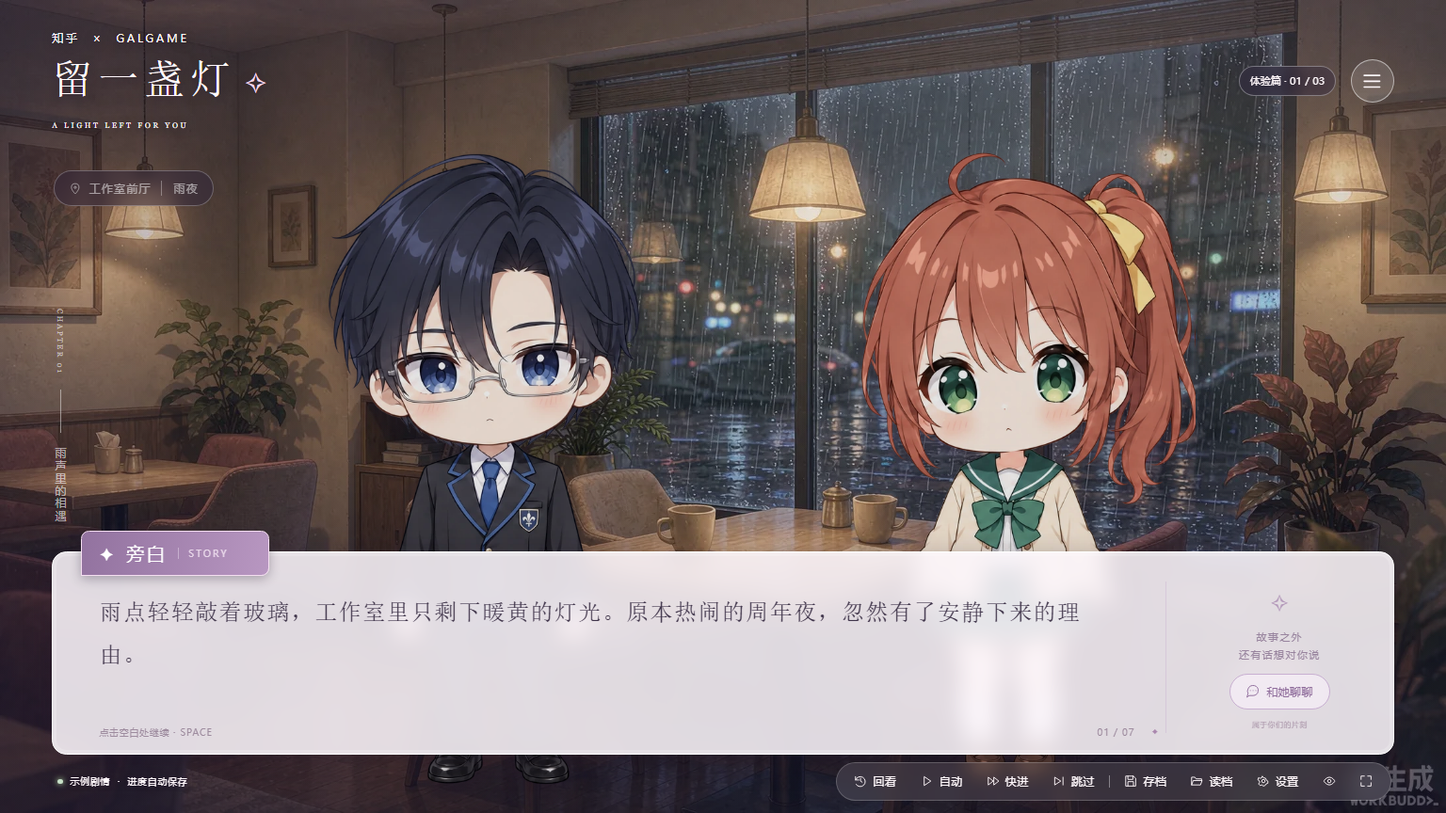
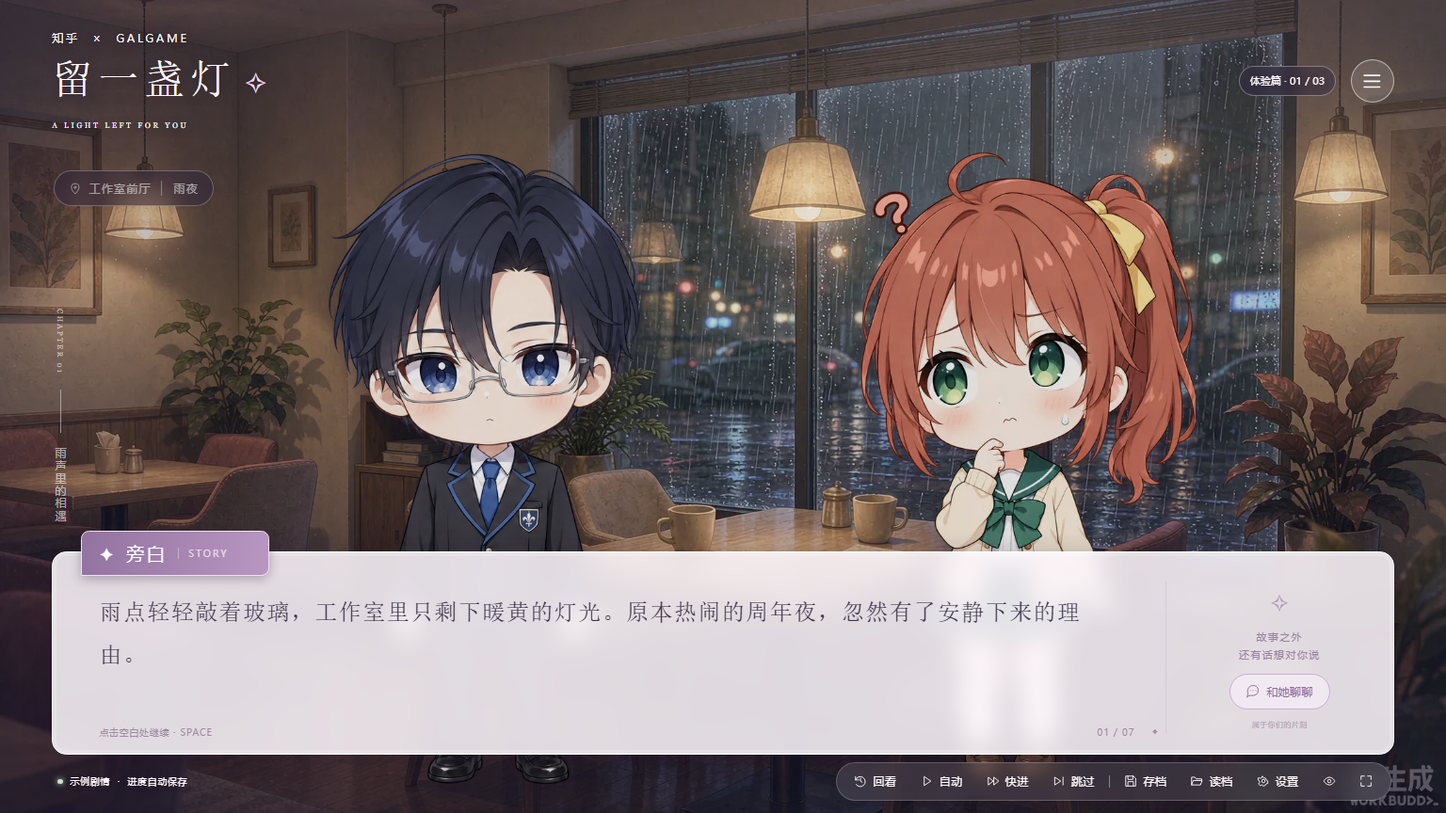
feat: 实现表情切换

diff --git a/app/globals.css b/app/globals.css
@@ -1,22 +1,1 @@
 :root{--ink:#40354b;--accent:#a882b6;font-family:"Microsoft YaHei","PingFang SC",sans-serif;color:var(--ink);background:#191626;font-synthesis:none}*{box-sizing:border-box}body{margin:0}button,input,textarea{font:inherit}button{cursor:pointer;border:0;background:none;color:inherit;-webkit-tap-highlight-color:transparent}button:disabled{opacity:.42;cursor:not-allowed}button:focus-visible,input:focus-visible,textarea:focus-visible{outline:2px solid #a275b2;outline-offset:3px}.icon{width:1.15em;height:1.15em;flex:none}h1,h2,h3,p{margin:0}h1,h2{font-family:"Noto Serif SC","SimSun",serif;font-weight:500}.game-shell{min-height:100dvh;display:grid;place-items:center}.game-stage{container-type:inline-size;position:relative;width:min(100vw,177.7778dvh);aspect-ratio:16/9;overflow:hidden;isolation:isolate;background:#534f60}.background{position:absolute;inset:0;width:100%;height:100%;object-fit:cover}.scene-vignette{position:absolute;inset:0;background:linear-gradient(180deg,#251c3d44,transparent 35%,#20162e77),linear-gradient(90deg,#281d3d44,transparent 45%,#251b3911)}.rain-light{position:absolute;inset:0;background:radial-gradient(ellipse at 75% 12%,#fce8c422,transparent 40%);pointer-events:none}.cast-stage{position:absolute;inset:0;pointer-events:none}.character{position:absolute;bottom:0;height:83%;width:32%;object-fit:contain;object-position:center bottom;filter:brightness(.9) saturate(.92) drop-shadow(0 12px 12px #23162866);transition:filter .3s;animation:character .5s ease-out}.character.player{left:18%}.character.partner{right:13%}.character.speaking{filter:brightness(1.06) saturate(1.05) drop-shadow(0 12px 20px #fff0ce44)}.stage-header{position:absolute;inset:3.7% 3.6% auto;z-index:4;display:flex;justify-content:space-between;color:#fff8fb;text-shadow:0 2px 10px #21182e99}.zhihu-mark{display:block;font-size:.8cqw;letter-spacing:.2em}.zhihu-mark i{font-style:normal;margin:0 .6em}.wordmark h1{font-size:2.8cqw;line-height:1.25;letter-spacing:.14em;margin:.2em 0}.wordmark h1 span{font-size:.72em;color:#f3d9ec;margin-left:.25em}.wordmark-en{font:.53cqw Georgia;letter-spacing:.32em}.top-right{display:flex;gap:1cqw;align-items:center}.chapter-chip{font-size:.72cqw;padding:.7em 1em;border:1px solid #fff5;border-radius:2em;background:#30254166;backdrop-filter:blur(8px)}.menu-trigger{width:3cqw;height:3cqw;border-radius:50%;display:grid;place-items:center;border:1px solid #fff8;background:#fff2;font-size:1.4cqw}.location-chip{position:absolute;top:21%;left:3.7%;z-index:3;display:flex;align-items:center;gap:.5cqw;padding:.65cqw 1cqw;border-radius:3em;color:#fff8;font-size:.78cqw;letter-spacing:.1em;background:#30263b81;border:1px solid #fff4;backdrop-filter:blur(8px)}.location-chip>span{border-left:1px solid #fff5;padding-left:.8cqw;margin-left:.2cqw}.chapter-side{position:absolute;top:38%;left:3.7%;color:#fff9;writing-mode:vertical-rl;display:flex;gap:1cqw;align-items:center;font-size:.75cqw;letter-spacing:.17em}.chapter-side>span{font:.55cqw Georgia}.chapter-side>i{height:3cqw;border-left:1px solid #fff7}.dialogue-wrap{position:absolute;z-index:6;bottom:7.2%;left:3.6%;right:3.6%;height:25%}.speaker-name{position:absolute;z-index:2;top:-1.4cqw;left:2cqw;display:flex;align-items:center;gap:.7cqw;min-width:13cqw;padding:.65cqw 1.2cqw;color:#fff;border:1px solid #f5def1;border-radius:.55cqw .55cqw .55cqw 0;background:linear-gradient(100deg,#92729f,#b897c1);box-shadow:0 3px 12px #31243855;font-size:1.25cqw;letter-spacing:.13em}.speaker-role{padding-left:.7cqw;border-left:1px solid #f8eefa66;font-size:.62cqw;color:#f7eaf6cc}.dialogue-panel{height:100%;display:flex;border:1px solid #fff;border-radius:1cqw;background:rgb(255 249 255 / var(--panel-opacity));box-shadow:0 8px 30px #20132655,inset 0 0 0 4px #fff3;backdrop-filter:blur(12px)}.dialogue-click{position:relative;flex:1;min-width:0;text-align:left;padding:2.65cqw 3.2cqw 2.8cqw;display:flex;flex-direction:column}.dialogue-text{font-family:"Noto Serif SC","SimSun",serif;font-size:clamp(14px,var(--dialogue-size),34px);line-height:1.9;letter-spacing:.06em;white-space:pre-wrap;overflow:auto}.dialogue-bottom{position:absolute;bottom:1.1cqw;left:3.2cqw;right:2.1cqw;display:flex;justify-content:space-between;color:#9e8c9f;font-size:.62cqw;letter-spacing:.12em}.dialogue-bottom i{font-style:normal}.continue-diamond{position:absolute;right:.5cqw;bottom:1cqw;font-size:.7cqw;color:#aa87ae;animation:pulse 1.8s infinite}.dialogue-aside{flex:0 0 17%;margin:2cqw 0 1.4cqw;border-left:1px solid #c7b0ce69;display:flex;align-items:center;justify-content:center;flex-direction:column;gap:.65cqw;text-align:center}.aside-spark{font-size:1.7cqw;color:#b49abb}.dialogue-aside p{font-size:.72cqw;line-height:1.8;letter-spacing:.12em;color:#98849e}.chat-entry{display:flex;gap:.5cqw;align-items:center;border:1px solid #c8afd1;border-radius:2em;padding:.65cqw 1.1cqw;background:#faf2fb9e;color:#8d6a9a;font-size:.8cqw}.pause-note{font-size:.55cqw;color:#ae9aad}.quick-menu{position:absolute;z-index:7;bottom:1.55%;left:4%;right:3.8%;display:flex;justify-content:space-between;align-items:center;color:#fff8fb;text-shadow:0 1px 4px #31203d88}.save-status{display:flex;align-items:center;gap:.5cqw;font-size:.64cqw;letter-spacing:.08em}.save-status i{width:.35cqw;height:.35cqw;border-radius:50%;background:#c7e1c7;box-shadow:0 0 6px #cff6b8}.quick-menu nav{display:flex;align-items:center;gap:.35cqw;padding:.18cqw .55cqw;border:1px solid #fff3;border-radius:3em;background:#f5edff1f;backdrop-filter:blur(10px)}.quick-menu nav button{display:flex;align-items:center;gap:.4cqw;padding:.55cqw .65cqw;border-radius:2em;color:inherit;font-size:.8cqw}.quick-menu nav button:hover,.quick-menu nav button[aria-pressed=true]{background:#fff;color:#775f85;text-shadow:none}.toolbar-divider{height:.8cqw;border-left:1px solid #fff6}.choice-layer{position:absolute;z-index:5;inset:0;display:grid;place-items:center;padding-bottom:10%;background:#1d143c55;backdrop-filter:blur(1px)}.choice-card{width:40%;text-align:center;animation:fade .3s}.eyebrow{font-size:.65cqw;letter-spacing:.22em;color:#a982b4}.choice-card .eyebrow{color:#f2d9ef}.choice-card h2{font-size:1.55cqw;letter-spacing:.17em;color:#fff5fb;text-shadow:0 2px 8px #23182e;margin:.6cqw 0 1.4cqw}.choice-card button{display:flex;align-items:center;gap:1.2cqw;width:100%;margin:.7cqw 0;padding:1cqw 1.5cqw;border:1px solid #fff;border-radius:.4cqw;background:#fff9;color:#6b526f;box-shadow:0 4px 15px #21152e33;font-size:1.02cqw}.choice-card button:hover{background:#a987b6;color:white;transform:translateX(3px)}.choice-card button>span{font:.82cqw Georgia;color:#a888b1}.choice-card button .icon{margin-left:auto}.story-error,.generation-status,.toast,.affinity-toast{position:absolute;z-index:15;left:50%;transform:translateX(-50%);border:1px solid #fff;border-radius:2em;background:#fff7ffed;box-shadow:0 6px 25px #24172e44;padding:.8cqw 1.5cqw;font-size:.85cqw}.story-error{top:30%;width:40%;border-radius:.5cqw;display:flex;gap:1cqw;flex-wrap:wrap}.story-error>span{width:100%;line-height:1.8}.story-error button{border-bottom:1px solid #a27cab}.generation-status{top:4%;background:#30273bb8;color:#fff}.toast{top:10%;color:#906a99}.affinity-toast{top:18%;color:#b86f91;font-size:1.1cqw;animation:affinity 2.8s ease forwards}.ending-button{position:absolute;z-index:9;top:48%;left:50%;transform:translateX(-50%);display:flex;gap:1cqw;align-items:center;padding:1cqw 2cqw;border:1px solid white;border-radius:2em;background:#fff9;color:#805f88;font-size:1cqw}.restore-ui{position:absolute;z-index:8;right:3%;bottom:4%;padding:.7em 1.5em;border:1px solid #fff8;border-radius:2em;background:#30264099;color:white;font-size:.9cqw}.title-screen{position:absolute;z-index:4;inset:0;color:#fff5fb;background:linear-gradient(90deg,#2e223bbf,#38274979 42%,transparent 72%)}.title-copy{position:absolute;left:9%;top:12%}.title-copy .zhihu-mark{font-size:1cqw}.title-overline{font:.6cqw Georgia;letter-spacing:.2em;color:#ead2e6;margin:3cqw 0 1cqw}.title-copy h1{font-size:5.3cqw;letter-spacing:.08em;line-height:1.2;text-shadow:0 3px 25px #f0bfda33}.title-copy h1 span{font-size:.7em;margin-left:.2em}.title-en{font:.8cqw Georgia;letter-spacing:.4em;margin:1cqw 0 2cqw}.title-poem{font-family:serif;font-size:1.1cqw;line-height:2.1;letter-spacing:.15em}.title-actions{display:flex;flex-direction:column;gap:.8cqw;width:22cqw;margin:2.5cqw 0 2cqw}.title-actions>button{display:flex;align-items:center;justify-content:space-between;padding:1cqw 1.6cqw;border:1px solid #eedff055;border-radius:.35cqw;background:#fff1;color:inherit;text-align:left;font-size:1cqw;letter-spacing:.13em}.title-actions>button.primary{background:linear-gradient(110deg,#aa87b9,#916da3);box-shadow:0 5px 16px #341e3d44}.title-secondary{display:flex;justify-content:center;gap:1.2cqw;align-items:center;color:#e6d6e4;font-size:.72cqw}.title-secondary i{height:.8em;border-left:1px solid #fff5}.title-footnote{font-size:.64cqw;letter-spacing:.12em;color:#e1d2dcbb}.title-version{position:absolute;right:3%;bottom:3%;font:.55cqw Georgia;letter-spacing:.18em;opacity:.7}.title-cast .player{left:48%;height:78%;bottom:-4%;opacity:.7}.title-cast .partner{right:7%;height:91%;bottom:-7%}.game-dialog,.chat-dialog{position:absolute;inset:0;width:100%;height:100%;max-width:100%;max-height:100%;margin:auto;border:0;padding:0;background:#20182e78;backdrop-filter:blur(7px);color:var(--ink)}.game-dialog[open]{display:grid;place-items:center}.modal-card{position:relative;width:min(70cqw,1020px);max-height:88%;padding:3cqw 3.5cqw;overflow:auto;border:1px solid #fff;border-radius:1cqw;background:linear-gradient(135deg,#fffafffa,#efe5f5fb);box-shadow:0 20px 70px #20142b55}.modal-close{position:absolute;right:1.4cqw;top:1.4cqw;width:2.3cqw;height:2.3cqw;display:grid;place-items:center;border:1px solid #cdb8d377;border-radius:50%;font-size:1cqw}.modal-card h2{margin:1cqw 0;font-size:2cqw;letter-spacing:.13em}.modal-description{font-size:.84cqw;line-height:1.8;color:#9c8a9f;margin-bottom:1.5cqw}.menu-grid{display:grid;grid-template-columns:1fr 1fr;gap:1cqw;margin:2cqw 0}.menu-grid button{display:flex;align-items:center;gap:1cqw;padding:1.3cqw 1.5cqw;border:1px solid #d9cae0;border-radius:.4cqw;background:#fff9;font-size:1cqw}.modal-resume{display:block;margin:2cqw auto 0;padding:.9cqw 2.5cqw;border-radius:2em;color:white;background:#a883b5;font-size:1cqw}.backlog{max-height:31cqw;overflow:auto}.backlog article{margin-top:1.5cqw}.backlog h3{padding-bottom:1cqw;border-bottom:1px solid #e3d5e7;font-size:1cqw;font-weight:400;color:#9d7fa8}.backlog h3 span{font:1cqw Georgia;margin-right:1cqw}.backlog p{display:flex;gap:2cqw;margin:1.5cqw 0;font:1cqw/1.9 "Noto Serif SC",serif}.backlog b{flex:0 0 5cqw;color:#a27cad;font: .87cqw "Microsoft YaHei",sans-serif}.save-grid{display:grid;grid-template-columns:repeat(3,1fr);gap:1cqw}.save-slot{position:relative;min-height:13cqw;display:flex;flex-direction:column;gap:.35cqw;overflow:hidden;text-align:left;border:1px solid #ddcce2;border-radius:.5cqw;background:#fff9}.slot-number{position:absolute;z-index:1;top:.6cqw;left:.6cqw;padding:.25em .45em;border-radius:1em;background:#fff9;color:#896998;font:.8cqw Georgia}.slot-preview{position:relative;width:100%;height:7cqw;overflow:hidden;background:#888096}.slot-preview img:first-child{width:100%;height:100%;object-fit:cover}.slot-preview img:last-child{position:absolute;left:25%;top:5%;width:60%;height:160%;object-fit:contain}.save-slot>strong{margin:.3cqw 1cqw 0;font-size:.9cqw;font-weight:500}.save-slot>span:not(.slot-number),.save-slot>time{margin:0 1cqw;font-size:.65cqw;color:#a391aa}.slot-empty{flex:1;display:flex;align-items:center;justify-content:center;flex-direction:column;gap:.5cqw;color:#b2a0bb;font-size:.8cqw}.slot-empty>span{font-size:2cqw}.settings-list{display:flex;flex-direction:column;gap:1.5cqw;margin:2cqw 0}.settings-list label{display:flex;align-items:center;gap:.8cqw;flex-wrap:wrap;font-size:.95cqw}.settings-list output{margin-left:auto;color:#a47eb0;font-size:.82cqw}.settings-list input[type=range]{width:100%;accent-color:#a987b7}.settings-list input[type=checkbox]{margin-left:auto;accent-color:#a987b7;width:1.2cqw;height:1.2cqw}.keyboard-help,.text-button{font-size:.75cqw;color:#a391ac}.text-button{text-decoration:underline}.confirm-actions{display:flex;justify-content:flex-end;gap:1cqw;margin-top:2cqw}.confirm-actions button{padding:.9cqw 1.5cqw;border:1px solid #ccb5d4;border-radius:.3cqw;font-size:.9cqw}.panel-skip .modal-card,.panel-title .modal-card{width:48cqw}.chat-dialog[open]{display:flex;justify-content:flex-end}.chat-panel{height:100%;width:34%;padding:2cqw;display:flex;flex-direction:column;background:linear-gradient(150deg,#fffafffa,#eee6f7fa);border-left:1px solid #fff;box-shadow:-15px 0 60px #25193644;animation:slide .25s ease}.chat-header{display:flex;align-items:center;gap:1cqw;margin-bottom:1.2cqw}.chat-avatar{width:3.6cqw;height:3.6cqw;overflow:hidden;border:2px solid white;border-radius:50%;background:#e4d6ec}.chat-avatar img{width:100%;height:200%;object-fit:cover;object-position:top;transform:scale(1.65);transform-origin:50% 20%}.chat-header h2{margin-bottom:.3cqw;font-size:1.35cqw;letter-spacing:.1em}.chat-header>div>span,.chat-pause,.chat-date{font-size:.64cqw;color:#a694ae}.chat-header>button{margin-left:auto;font-size:1cqw}.chat-header i{display:inline-block;width:.35cqw;height:.35cqw;margin-right:.4cqw;border-radius:50%;background:#9fb6a2}.chat-tabs{display:flex;gap:.5cqw;margin-bottom:1.2cqw}.chat-tabs button{flex:1;padding:.5cqw .3cqw;border:1px solid #ddcfe5;border-radius:2em;color:#9d83a8;font-size:.7cqw}.chat-tabs button[aria-pressed=true]{border-color:transparent;background:#af8dbd;color:white}.relationship{display:flex;flex-wrap:wrap;align-items:center;gap:.6cqw;color:#af85a3;font-size:.7cqw}.relationship>span{display:flex;align-items:center;gap:.4cqw}.relationship>b{margin-left:auto}.relationship>div{width:100%;height:.35cqw;overflow:hidden;border-radius:2em;background:#ead9e7}.relationship>div>i{display:block;height:100%;border-radius:inherit;background:linear-gradient(90deg,#c19ac5,#d7a1b8);transition:width .5s}.chat-pause{margin:1.3cqw 0 .6cqw;text-align:center}.chat-messages{flex:1;min-height:0;display:flex;flex-direction:column;gap:1cqw;overflow:auto}.chat-date{text-align:center;margin:.2cqw 0 .6cqw}.bubble{max-width:90%;padding:.85cqw 1.1cqw;font-size:.86cqw;line-height:1.85;white-space:pre-wrap;overflow-wrap:anywhere}.bubble.assistant{align-self:flex-start;border:1px solid white;border-radius:0 .9cqw .9cqw .9cqw;background:#fff9;color:#77627f}.bubble.user{align-self:flex-end;border-radius:.9cqw 0 .9cqw .9cqw;background:#b292c2;color:white}.chat-error{margin:.6cqw 0;color:#a65e7c;font-size:.7cqw}.chat-form{display:flex;flex-wrap:wrap;align-items:center;gap:.8cqw;border-top:1px solid #dfd2e8;padding-top:1cqw}.chat-form textarea{flex:1;width:0;height:4.1cqw;min-height:4.1cqw;resize:none;border:1px solid #decee7;border-radius:.6cqw;background:#ffffffa8;padding:.85cqw;color:#796180;font-size:.82cqw}.chat-form button{width:2.8cqw;height:2.8cqw;display:grid;place-items:center;border-radius:50%;background:#a480b4;color:white;font-size:1.1cqw}.chat-form>span{width:100%;text-align:center;color:#b39ec0;font-size:.58cqw}.portrait-notice{display:none}@keyframes character{from{opacity:0;translate:0 8px}to{opacity:1;translate:0 0}}@keyframes pulse{50%{opacity:.35;translate:0 3px}}@keyframes fade{from{opacity:0;translate:0 5px}to{opacity:1;translate:0 0}}@keyframes slide{from{translate:100%}to{translate:0}}@keyframes affinity{0%{opacity:0;translate:-50% 10px}15%,80%{opacity:1;translate:-50% 0}100%{opacity:0;translate:-50% -20px}}.reduce-motion *{animation:none!important;transition:none!important}@media(max-width:1000px) and (orientation:landscape){.wordmark h1{font-size:3.2cqw}.zhihu-mark{font-size:1cqw}.chapter-chip,.location-chip{font-size:1cqw}.menu-trigger{width:4cqw;height:4cqw;font-size:1.8cqw}.dialogue-wrap{height:28%;bottom:9%;left:3%;right:3%}.speaker-name{font-size:1.65cqw}.dialogue-click{padding:2.8cqw 3cqw}.dialogue-text{font-size:clamp(13px,var(--dialogue-size),21px);line-height:1.7}.dialogue-bottom{font-size:.85cqw}.dialogue-aside{flex-basis:20%;margin-top:1.5cqw}.dialogue-aside p{font-size:.9cqw}.chat-entry{font-size:1cqw}.quick-menu{left:3%;right:3%;bottom:1.8%}.quick-menu nav{gap:.15cqw}.quick-menu nav button{min-height:28px;padding:.7cqw .58cqw;font-size:1.1cqw}.save-status{font-size:.8cqw}.save-status>span{display:none}.choice-card{width:48%}.choice-card h2{font-size:1.9cqw;margin-bottom:.7cqw}.choice-card button{min-height:34px;font-size:1.3cqw}.modal-card{max-height:93%;padding:2cqw 3cqw}.modal-card h2{font-size:2.4cqw}.modal-description{font-size:1.1cqw}.modal-close{width:3.2cqw;height:3.2cqw;font-size:1.5cqw}.menu-grid button,.modal-resume,.confirm-actions button{min-height:32px;font-size:1.3cqw}.backlog h3,.backlog p{font-size:1.3cqw}.backlog b{flex-basis:7cqw;font-size:1.1cqw}.settings-list{gap:1.2cqw;margin:1.2cqw 0}.settings-list label{font-size:1.3cqw}.settings-list output,.keyboard-help,.text-button{font-size:1cqw}.save-slot>strong{font-size:1.2cqw}.save-slot>span:not(.slot-number),.save-slot>time{font-size:.9cqw}.chat-panel{width:43%;padding:1.5cqw}.chat-header h2{font-size:1.75cqw}.chat-header>div>span,.chat-pause,.chat-date{font-size:.85cqw}.chat-avatar{width:4.5cqw;height:4.5cqw}.chat-tabs button{min-height:26px;font-size:1cqw}.relationship{font-size:.9cqw}.bubble{font-size:1.2cqw;line-height:1.7}.chat-form textarea{min-height:5.5cqw;height:5.5cqw;font-size:1.2cqw}.chat-form button{width:4cqw;height:4cqw;font-size:1.7cqw}.chat-form>span{font-size:.75cqw}.title-copy{top:8%}.title-actions{width:25cqw;gap:.65cqw;margin:1.7cqw 0}.title-actions>button{min-height:32px;font-size:1.3cqw}.title-poem{font-size:1.4cqw}.title-secondary{font-size:1cqw}.title-footnote{font-size:.8cqw}}@media(orientation:portrait) and (max-width:900px){.game-stage{visibility:hidden}.portrait-notice{position:fixed;z-index:99;inset:0;display:flex;align-items:center;justify-content:center;flex-direction:column;gap:24px;padding:30px;text-align:center;color:#f4e6f7;background:radial-gradient(ellipse at top,#75607d,#231d32)}.portrait-notice span{font-size:60px}.portrait-notice h2{font-size:21px;line-height:1.8}.portrait-notice p{font-size:12px;letter-spacing:3px;color:#bfa9c9}}
-
-/* Character assets are three-pose landscape sheets: advance the story to cycle left, middle, and right poses. */
-.character{object-fit:cover;object-position:center bottom}
-.character.pose-left{object-position:left bottom}
-.character.pose-middle{object-position:center bottom}
-.character.pose-right{object-position:right bottom}
-.slot-preview img:last-child{object-fit:cover;object-position:center bottom}
-.slot-preview img:last-child.pose-left{object-position:left bottom}
-.slot-preview img:last-child.pose-middle{object-position:center bottom}
-.slot-preview img:last-child.pose-right{object-position:right bottom}
-
-/* Single portrait assets keep the original full-body fit; only three-pose sheets use crop positions. */
-.character{object-fit:contain;object-position:center bottom}
-.character.sheet{object-fit:cover}
-.character.sheet.pose-left{object-position:left bottom}
-.character.sheet.pose-middle{object-position:center bottom}
-.character.sheet.pose-right{object-position:right bottom}
-.slot-preview img:last-child.sheet{object-fit:cover}
-
-/* One pose occupies one third of a 1536x1024 sheet, so its display box is about 1:2. */
-.character.sheet{width:24%}

diff --git a/app/page.tsx b/app/page.tsx
@@ -4,9 +4,14 @@ import type {PublicState,GameEvent} from '../lib/story';
 import {cast,chooseDemo,demoOpening,isSaveSlot,type CastId,type Chats,type SaveSlot} from '../lib/ui-story';
 type ViewNode={title?:string;lines:{speaker:string;text:string}[];choices:{text:string}[]};
 type UiCharacter={id:string;name:string;job:string;color:string;greeting:string;gender?:string};
-const assetFor=(id:string)=>`/art/${({lin:'f1',tao:'f2',shen:'f3'} as Record<string,string>)[id]||id}.webp`;
-type CharacterPose='left'|'middle'|'right';
-const poseForLine=(line:number)=>((['left','middle','right'] as CharacterPose[])[line%3]);
+const assetFor=(id:string,pose:CharacterPose='happy')=>`/art/${({lin:'f1',tao:'f2',shen:'f3'} as Record<string,string>)[id]||id}_${pose}.webp`;
+type CharacterPose='happy'|'surprised'|'thinking';
+const poseForText=(speaker:string,text:string):CharacterPose=>{
+  if(speaker==='旁白')return 'thinking';
+  if(/[!！?？]|突然|竟然|真的吗|诶|啊/.test(text))return 'surprised';
+  if(/开心|高兴|谢谢|太好了|喜欢|愿意|好啊|没问题|成功|期待|笑|温暖|轻松/.test(text))return 'happy';
+  return 'thinking';
+};
 const fallbackCharacter:UiCharacter={id:'lin',name:'林见夏',job:'插画师',color:'#bd7d91',greeting:'雨还没停。你想聊些什么？我在听。'};
 type Panel='menu'|'history'|'save'|'load'|'settings'|'title'|'skip'|null;
 type Preferences={speed:number;delay:number;opacity:number;fontSize:number;motion:boolean};
@@ -35,7 +40,7 @@ export default function Home(){
   const partner=uiCast.find(c=>c.name===currentLine?.speaker)||uiCast.find(c=>c.id===state?.route)||uiCast[0]||fallbackCharacter;
   const chatCharacter=uiCast.find(c=>c.id===chatPerson)||partner||fallbackCharacter;
   const showChoices=atEnd&&fullyShown&&!waiting&&!busy&&!!node?.choices.length;
-  const currentPose=poseForLine(line);
+  const currentPose=poseForText(currentLine?.speaker||'旁白',text);
   const segment=(state?.nodes.length||0)+(partial?1:0);
   function notify(message:string){setToast(message);}
   function persist(key:string,value:unknown){try{localStorage.setItem(key,JSON.stringify(value));return true;}catch{notify('浏览器存储空间不足，进度暂未保存。');return false;}}
@@ -116,7 +121,7 @@ export default function Home(){
     <div className="portrait-notice"><span>↻</span><h2>把屏幕横过来，故事就开始了。</h2><p>横屏体验 · 留一盏灯</p></div>
     <section className="game-stage" style={css} aria-label="留一盏灯，视觉小说舞台" onContextMenu={e=>{if(!(e.target instanceof HTMLElement&&e.target.closest('input,textarea'))){e.preventDefault();if(!chatOpen)setPanel(panel?null:'menu');}}}>
       <img className="background" src={sceneAsset} alt={state?.world.background.label||"雨夜场景"}/><div className="scene-vignette"/><div className="rain-light" aria-hidden="true"/>
-      <div className={`cast-stage ${started?'':'title-cast'}`} aria-hidden={!started}><img className={`character player ${currentLine?.speaker==='许澄'?'speaking':''}`} src="/art/player.webp" alt="主角许澄的立绘"/><img key={partner.id} className={`character sheet partner pose-${currentPose} ${currentLine?.speaker===partner.name?'speaking':''}`} src={assetFor(partner.id)} alt={`${partner.name}的立绘`}/></div>
+      <div className={`cast-stage ${started?'':'title-cast'}`} aria-hidden={!started}><img className={`character player ${currentLine?.speaker==='许澄'?'speaking':''}`} src="/art/player.webp" alt="主角许澄的立绘"/><img key={`${partner.id}-${currentPose}`} className={`character partner pose-${currentPose} ${currentLine?.speaker===partner.name?'speaking':''}`} src={assetFor(partner.id,currentPose)} alt={`${partner.name}的立绘`}/></div>
       {started&&!hidden&&<>
         <header className="stage-header"><div className="wordmark"><span className="zhihu-mark">知乎 <i>×</i> GALGAME</span><h1>留一盏灯<span>✧</span></h1><span className="wordmark-en">A LIGHT LEFT FOR YOU</span></div><div className="top-right"><span className="chapter-chip">{mode==='demo'?'体验篇':'故事篇'} · {String(segment||1).padStart(2,'0')} / {String(state?.total||7).padStart(2,'0')}</span><Control icon="menu" className="menu-trigger" aria-label="打开游戏菜单" onClick={()=>setPanel('menu')}/></div></header>
         <div className="location-chip"><Icon name="pin"/>{state?.world.locations[0]||'工作室前厅'}<span>雨夜</span></div><div className="chapter-side"><span>CHAPTER {String(segment||1).padStart(2,'0')}</span><i/>{node?.title||'故事即将开始'}</div>
@@ -131,12 +136,12 @@ export default function Home(){
       <dialog ref={dialogRef} className={`game-dialog panel-${panel}`} onCancel={e=>{e.preventDefault();setPanel(null);}} onClick={e=>{if(e.target===e.currentTarget)setPanel(null);}} aria-label={panel==='history'?'回看故事':panel==='settings'?'游戏设置':panel==='save'?'保存故事':panel==='load'?'读取故事':'游戏菜单'}><div className="modal-card"><Control icon="close" className="modal-close" aria-label="关闭弹窗" onClick={()=>setPanel(null)}/><span className="eyebrow">LAMPLIGHT · {panel==='history'?'BACKLOG':panel==='settings'?'PREFERENCES':panel==='save'?'SAVE':panel==='load'?'LOAD':'PAUSE'}</span>
         {panel==='menu'&&<><h2>让这一刻，停留一下。</h2><div className="menu-grid"><Control icon="save" disabled={!state||waiting||busy} onClick={()=>setPanel('save')}>保存故事</Control><Control icon="load" disabled={busy} onClick={()=>setPanel('load')}>读取故事</Control><Control icon="history" disabled={!node} onClick={()=>setPanel('history')}>回看 · Backlog</Control><Control icon="settings" onClick={()=>setPanel('settings')}>游戏设置</Control><Control icon="full" onClick={()=>void fullscreen()}>切换全屏</Control><Control icon="arrow" disabled={busy} onClick={()=>setPanel('title')}>返回标题</Control></div><button className="primary modal-resume" onClick={()=>setPanel(null)}>继续这一刻</button></>}
         {panel==='history'&&<><h2>我们说过的话</h2><p className="modal-description">把已经走过的片刻，再温习一遍。</p><div className="backlog">{historyNodes.map((n,i)=><article key={i}><h3><span>0{i+1}</span>{n.title}</h3>{n.lines.slice(0,i===historyNodes.length-1?line+(fullyShown?1:0):undefined).map((l,j)=><p key={j}><b>{l.speaker}</b><span>{l.text}</span></p>)}</article>)}</div></>}
-        {(panel==='save'||panel==='load')&&<><h2>{panel==='save'?'收藏这一刻':'回到那一刻'}</h2><p className="modal-description">{panel==='save'?'保存当前对白、选择与聊天记录。':'选择一个保存的位置，继续你们的故事。'}</p><div className="save-grid">{slots.map((slot,i)=><button key={i} className="save-slot" disabled={busy||(panel==='load'&&!slot)} aria-label={`${panel==='save'?'保存到':'读取'}位置 ${i+1}`} onClick={()=>panel==='save'?void saveSlot(i):slot&&void loadSlot(slot)}><span className="slot-number">0{i+1}</span>{slot?<><div className="slot-preview"><img src="/art/cafe-rain.webp" alt="存档场景"/><img className={`sheet pose-${poseForLine(slot.line)}`} src={assetFor(slot.partner)} alt=""/></div><strong>{overwrite===i?'再次点击确认覆盖':slot.state.nodes.at(-1)?.title}</strong><span>{slot.mode==='demo'?'体验篇':'AI 故事'} · 第 {slot.line+1} 句</span><time>{new Date(slot.time).toLocaleString('zh-CN',{month:'2-digit',day:'2-digit',hour:'2-digit',minute:'2-digit'})}</time></>:<div className="slot-empty"><span>＋</span><p>尚未留下回忆</p></div>}</button>)}</div></>}
+        {(panel==='save'||panel==='load')&&<><h2>{panel==='save'?'收藏这一刻':'回到那一刻'}</h2><p className="modal-description">{panel==='save'?'保存当前对白、选择与聊天记录。':'选择一个保存的位置，继续你们的故事。'}</p><div className="save-grid">{slots.map((slot,i)=><button key={i} className="save-slot" disabled={busy||(panel==='load'&&!slot)} aria-label={`${panel==='save'?'保存到':'读取'}位置 ${i+1}`} onClick={()=>panel==='save'?void saveSlot(i):slot&&void loadSlot(slot)}><span className="slot-number">0{i+1}</span>{slot?<><div className="slot-preview"><img src="/art/cafe-rain.webp" alt="存档场景"/><img className={`pose-${poseForText(slot.state.nodes.at(-1)?.lines?.[slot.line]?.speaker||'旁白',slot.state.nodes.at(-1)?.lines?.[slot.line]?.text||'')}`} src={assetFor(slot.partner,poseForText(slot.state.nodes.at(-1)?.lines?.[slot.line]?.speaker||'旁白',slot.state.nodes.at(-1)?.lines?.[slot.line]?.text||''))} alt=""/></div><strong>{overwrite===i?'再次点击确认覆盖':slot.state.nodes.at(-1)?.title}</strong><span>{slot.mode==='demo'?'体验篇':'AI 故事'} · 第 {slot.line+1} 句</span><time>{new Date(slot.time).toLocaleString('zh-CN',{month:'2-digit',day:'2-digit',hour:'2-digit',minute:'2-digit'})}</time></>:<div className="slot-empty"><span>＋</span><p>尚未留下回忆</p></div>}</button>)}</div></>}
         {panel==='settings'&&<><h2>按照你的节奏</h2><div className="settings-list"><label>文字显示速度 <output>{preferences.speed===0?'立即显示':`${preferences.speed} 字 / 秒`}</output><input type="range" min="0" max="80" step="5" value={preferences.speed} onChange={e=>setPreferences(p=>({...p,speed:+e.target.value}))}/></label><label>自动阅读间隔 <output>{preferences.delay} 秒</output><input type="range" min="1" max="8" value={preferences.delay} onChange={e=>setPreferences(p=>({...p,delay:+e.target.value}))}/></label><label>对白框不透明度 <output>{preferences.opacity}%</output><input type="range" min="55" max="100" value={preferences.opacity} onChange={e=>setPreferences(p=>({...p,opacity:+e.target.value}))}/></label><label>对白字号 <output>{preferences.fontSize}</output><input type="range" min="21" max="31" value={preferences.fontSize} onChange={e=>setPreferences(p=>({...p,fontSize:+e.target.value}))}/></label><label className="switch-label">界面动画与逐字显示 <input type="checkbox" checked={preferences.motion} onChange={e=>setPreferences(p=>({...p,motion:e.target.checked}))}/></label></div><p className="keyboard-help">空格 / → 推进　·　Esc 菜单　·　H 隐藏界面　·　F 全屏</p><button className="text-button" onClick={()=>setPreferences(defaults)}>恢复默认设置</button></>}
         {panel==='skip'&&<><h2>跳到这段故事的选择？</h2><p className="modal-description">跳过当前片段剩余的对白，在需要你做决定的地方停下。</p><div className="confirm-actions"><button onClick={()=>setPanel(null)}>慢慢读完</button><button className="primary" onClick={()=>{setLine(Math.max(0,(node?.lines.length||1)-1));setShown(10000);setPlayMode('manual');setPanel(null);}}>跳过本段</button></div></>}
         {panel==='title'&&<><h2>暂时告别这个雨夜？</h2><p className="modal-description">阅读位置会自动保留，随时可以回来继续。</p><div className="confirm-actions"><button onClick={()=>setPanel(null)}>再待一会儿</button><button className="primary" disabled={busy} onClick={()=>{setStarted(false);setPanel(null);setPlayMode('manual');}}>返回标题</button></div></>}
       </div></dialog>
-      <dialog ref={chatRef} className="chat-dialog" aria-label="自由对话" onCancel={e=>{e.preventDefault();setChatOpen(false);}} onClick={e=>{if(e.target===e.currentTarget)setChatOpen(false);}}><aside className="chat-panel"><header className="chat-header"><div className="chat-avatar"><img src={assetFor(chatPerson)} alt=""/></div><div><h2>{chatCharacter.name}</h2><span><i/>{chatCharacter.job} · 正在你身边</span></div><Control icon="close" aria-label="关闭自由对话" onClick={()=>setChatOpen(false)}/></header><div className="chat-tabs" aria-label="聊天对象">{uiCast.map(c=><button key={c.id} aria-pressed={chatPerson===c.id} disabled={chatBusy} onClick={()=>{setChatPerson(c.id);setChatError('');}}>{c.name}</button>)}</div><div className="relationship"><span><Icon name="heart"/>好感度</span><b>{state?.worldState.relationships[chatPerson]||0}</b><div role="meter" aria-label={`${chatCharacter.name}好感度`} aria-valuemin={0} aria-valuemax={Math.max(6,state?.worldState.relationships[chatPerson]||0)} aria-valuenow={state?.worldState.relationships[chatPerson]||0}><i style={{width:`${Math.min(100,(state?.worldState.relationships[chatPerson]||0)/6*100)}%`}}/></div></div><p className="chat-pause">Ⅱ 剧情已暂停，时间只属于你们</p><div className="chat-messages" role="log" aria-live="polite"><p className="chat-date">{mode==='demo'?'体验模式 · 预设角色回复':'故事之外的一次对话'}</p><div className="bubble assistant">{chatCharacter.greeting}</div>{(chats[chatPerson]||[]).map((m,i)=><div className={`bubble ${m.role}`} key={i}>{m.text}</div>)}{chatBusy&&<div className="bubble assistant typing">正在想怎么对你说…</div>}<div ref={chatEnd}/></div>{chatError&&<p className="chat-error" role="alert">{chatError}</p>}<form className="chat-form" onSubmit={e=>{e.preventDefault();void sendChat();}}><textarea aria-label="想对她说的话" placeholder="想对她说些什么？" maxLength={500} value={input} onChange={e=>setInput(e.target.value)} onKeyDown={e=>{if(e.key==='Enter'&&!e.shiftKey&&!e.nativeEvent.isComposing){e.preventDefault();void sendChat();}}}/><button type="submit" disabled={!input.trim()||chatBusy} aria-label="发送消息"><Icon name="arrow"/></button><span>Enter 发送 · Shift + Enter 换行</span></form></aside></dialog>
+      <dialog ref={chatRef} className="chat-dialog" aria-label="自由对话" onCancel={e=>{e.preventDefault();setChatOpen(false);}} onClick={e=>{if(e.target===e.currentTarget)setChatOpen(false);}}><aside className="chat-panel"><header className="chat-header"><div className="chat-avatar"><img src={assetFor(chatPerson,'happy')} alt=""/></div><div><h2>{chatCharacter.name}</h2><span><i/>{chatCharacter.job} · 正在你身边</span></div><Control icon="close" aria-label="关闭自由对话" onClick={()=>setChatOpen(false)}/></header><div className="chat-tabs" aria-label="聊天对象">{uiCast.map(c=><button key={c.id} aria-pressed={chatPerson===c.id} disabled={chatBusy} onClick={()=>{setChatPerson(c.id);setChatError('');}}>{c.name}</button>)}</div><div className="relationship"><span><Icon name="heart"/>好感度</span><b>{state?.worldState.relationships[chatPerson]||0}</b><div role="meter" aria-label={`${chatCharacter.name}好感度`} aria-valuemin={0} aria-valuemax={Math.max(6,state?.worldState.relationships[chatPerson]||0)} aria-valuenow={state?.worldState.relationships[chatPerson]||0}><i style={{width:`${Math.min(100,(state?.worldState.relationships[chatPerson]||0)/6*100)}%`}}/></div></div><p className="chat-pause">Ⅱ 剧情已暂停，时间只属于你们</p><div className="chat-messages" role="log" aria-live="polite"><p className="chat-date">{mode==='demo'?'体验模式 · 预设角色回复':'故事之外的一次对话'}</p><div className="bubble assistant">{chatCharacter.greeting}</div>{(chats[chatPerson]||[]).map((m,i)=><div className={`bubble ${m.role}`} key={i}>{m.text}</div>)}{chatBusy&&<div className="bubble assistant typing">正在想怎么对你说…</div>}<div ref={chatEnd}/></div>{chatError&&<p className="chat-error" role="alert">{chatError}</p>}<form className="chat-form" onSubmit={e=>{e.preventDefault();void sendChat();}}><textarea aria-label="想对她说的话" placeholder="想对她说些什么？" maxLength={500} value={input} onChange={e=>setInput(e.target.value)} onKeyDown={e=>{if(e.key==='Enter'&&!e.shiftKey&&!e.nativeEvent.isComposing){e.preventDefault();void sendChat();}}}/><button type="submit" disabled={!input.trim()||chatBusy} aria-label="发送消息"><Icon name="arrow"/></button><span>Enter 发送 · Shift + Enter 换行</span></form></aside></dialog>
     </section>
   </main>;
 }
